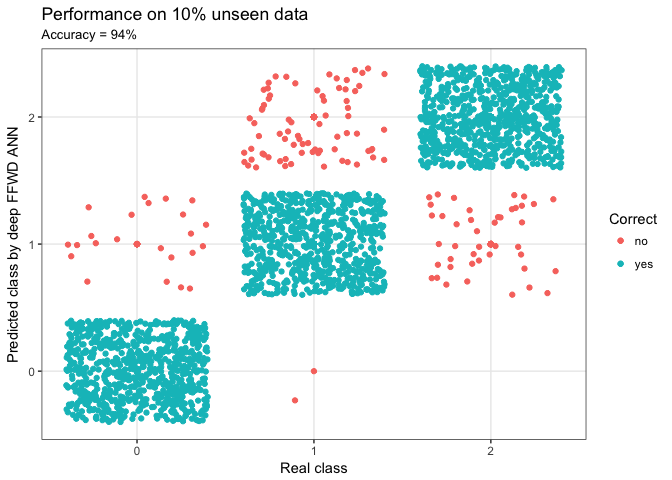
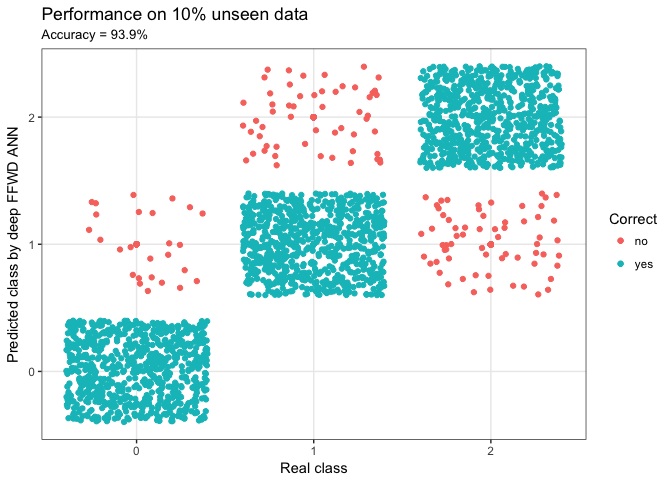
Update README

diff --git a/README.md b/README.md
@@ -1,12 +1,38 @@
-Keras/TensorFlow Demo
+Keras/TensorFlow in R Demo with Immunoinformatics as use-case
 ================
+
+Click on each section to expand or jump directly to the section of interest
+
+Introduction
+============
+
+<details> <summary>Click to expand</summary>
+
+### Aim
+
+The aim of this brief demo is to use deep learning to predict molecular interactions.
+
+### Background
+
+The use case is within immunological bioinformatics also known as immunoinformatics. Briefly, a key component in immune activation is the binding of small fragments of proteins known as peptide to a special molecule. Proteins and therefore peptides are made up of amino acids. Peptides are represented as a combination of the following 20 letters: `ARNDCQEGHILKMFPSTWYV`, such that a `9-mer` could be e.g. `GRTAEWMRW`. The special molecule binding the peptides is called Major Histocompability Complex Type 1 (MHCI) MHCI is located on the surface of the cells in our body and together with the bound peptide, MHCI reflects the health of the individual cells. If a cell is sick, this will be visible to the immune system via the MHCI-peptide interaction, as illustrated here by [Lund et al., 2005](https://mitpress.mit.edu/books/immunological-bioinformatics):
+
+<img src="README_files/figure-markdown_github/MHCI_pathway_cartoon.png" alt="Cartoon of the MHCI pathway" width="300" />
+
+### Data
+
+In this demo, we will be predicting if a given `9-mer` peptide will be a 'strong-binder' `SB`, 'weak-binder' `WB` or a 'non-binder' `NB` to the MHCI variant `HLA-A*02:01`. We will be using a data set created by submitting 1,000,000 random `9-mers` to [`netMHCpan-4.0`](http://www.cbs.dtu.dk/services/%60netMHCpan-4.0%60/) and predicting binding affinty to `HLA-A*02:01`. Based on the continuous binding affinty, each peptide is labeled `SB`, `WB` or `NB`. As `n(SB) < n(WB) << n(NB)`, the data set was balanced by down-sampling, such that `n(SB) = n(WB) = n(NB) = 7920`. Thusly, the data set has a total of `n(all) = 23760` data points. The data set was furthermore split into a `train` and `test` set, by random sampling 10% of the peptides. The data set is available [here](https://raw.githubusercontent.com/leonjessen/keras_tensorflow_demo/master/data/ran_peps_netMHCpan40_predicted_A0201_reduced_cleaned_balanced.tsv). It should be noted that this data set is derived from a model, so our final model in this example, will be a model of a model.
+
+</details>
+
+Setup
+=====
+
+<details> <summary>Click to expand</summary>
 
 Have no fear, you're almost there!
 ----------------------------------
 
-If you already have `tidyverse`, `keras`, `ggseqlogo` and `PepTools` installed, then you can skip directly to [this section](#deep-feed-forward-artificial-neural-network).
-
-We need a few things installed before we're good to go, but I promise it'll be quick and painless! <details> <summary>Click to see installation guide</summary>
+We need a few things installed before we're good to go, but I promise it'll be quick and painless!
 
 Getting started
 ---------------
@@ -15,7 +41,7 @@ You only need to do the following once!
 
 Go ahead and head on over to [The R Project for Statistical Computing](https://www.r-project.org/) and install the newest version of `R`. Then pop over to [RStudio](https://www.rstudio.com/products/rstudio/download/#download) and get their brilliant IDE.
 
-In order to use `Keras` and `TensorFlow`, we need to install them along with the `TidyVerse` framework. We also need `PepTools` for working with peptide data and the `ggseqlogo` package for generating sequence logos. Fortunately, this is straight forward using Hadley Wickham's `devtools`:
+In order to use [`Keras`](https://tensorflow.rstudio.com/) and [`TensorFlow`](https://tensorflow.rstudio.com/), we need to install them along with the [`TidyVerse`](https://www.tidyverse.org/) framework. We also need [`PepTools`](https://github.com/leonjessen/PepTools) for working with peptide data and lastly the [`ggseqlogo`](https://github.com/omarwagih/ggseqlogo) package for generating sequence logos. Fortunately, this is all straight forward using the ever brilliant [Hadley Wickham](https://pbs.twimg.com/profile_images/905186381995147264/7zKAG5sY.jpg)'s `devtools`:
 
 ``` r
 install.packages("devtools")
@@ -55,6 +81,9 @@ Deep Feed Forward Artificial Neural Network
 
 Here is a basic example of a deep FFWD ANN workflow (This example is adapted from this [RStudio Keras](https://keras.rstudio.com/) tutorial).
 
+Getting Started
+---------------
+
 First we clear the workspace to avoid unintentional reuse of old variables
 
 ``` r
@@ -77,6 +106,9 @@ pep_file = "https://raw.githubusercontent.com/leonjessen/keras_tensorflow_demo/m
 pep_dat  = read_tsv(file = pep_file)
 ```
 
+Understand the Data
+-------------------
+
 The example peptide data looks like this
 
 ``` r
@@ -98,7 +130,7 @@ pep_dat
     ## 10 NIWLAIIEL        WB         1     train
     ## # ... with 23,750 more rows
 
-Where `peptide` is a set of `9-mer` peptides, `label_chr` defines whether the peptide was predicted by `netMHCpan-4.0` to be a strong-binder `SB`, weak-binder `WB` or `NB` non-binder to `HLA-A*02:01`. `label_num` is equivalent to `label_chr`, only the predicted binding is coded into three numeric classes. Finally `data_type` defines whether the particular data point is part of the training set or the ~10% data left out and used for final evaluation. The data has been balanced, which we can see using `TidyVerse` methods to summarise the input data:
+Where `peptide` is a set of `9-mer` peptides, `label_chr` defines whether the peptide was predicted by [`netMHCpan-4.0`](http://www.cbs.dtu.dk/services/%60netMHCpan-4.0%60/) to be a strong-binder `SB`, weak-binder `WB` or `NB` non-binder to `HLA-A*02:01`. `label_num` is equivalent to `label_chr`, only the predicted binding is coded into three numeric classes. Finally `data_type` defines whether the particular data point is part of the training set or the ~10% data left out and used for final evaluation. The data has been balanced, which we can see using `TidyVerse` methods to summarise the input data:
 
 ``` r
 pep_dat %>% group_by(label_chr, data_type) %>% summarise(n = n())
@@ -115,22 +147,34 @@ pep_dat %>% group_by(label_chr, data_type) %>% summarise(n = n())
     ## 5        WB      test   792
     ## 6        WB     train  7128
 
-Note this data set is derived from a model, so our final model in this example, will be a model of a model.
-
-We can use the very nice `ggseqlogo` package to visualise the sequence motif for the strong binders: <details> <summary>Click to see `ggseqlogo` code</summary>
+We can use the very nice `ggseqlogo` package to visualise the sequence motif for the strong binders:
 
 ``` r
-pep_dat %>% filter(label_chr=='SB') %>% pull(peptide) %>% ggseqlogo()
+pep_dat %>% filter(label_chr=='SB') %>% pull(peptide) %>%
+  pssm_freqs %>% pssm_bits %>% t %>% ggseqlogo(method="custom")
 ```
 
-![](README_files/figure-markdown_github/seq_logo-1.png) </details>
+<img src="README_files/figure-markdown_github/seq_logo-1.png" style="display: block; margin: auto;" />
 
-Prepare data
-------------
+From the sequence logo, it is evident that positions 2 and 9 in the peptide are of paramount importance for the MHCI-peptide binding. In fact these positions are known as the anchor positions.
 
-We are creating a model `f`, where `x` is the peptide and `y` is one of three classes `SB`, `WB` and `NB`, such that `f(x) = y`. Each peptide is encoded using the [BLOSUM62 matrix](https://www.ncbi.nlm.nih.gov/Class/FieldGuide/BLOSUM62.txt), such that each peptide becomes an 'image' matrix with 9 rows and 20 columns.
+Understand the encoding
+-----------------------
 
-We need to define the `x_train`, `y_train`, `x_test` and `y_test`:
+Each peptide is encoded using the [BLOSUM62 matrix](https://www.ncbi.nlm.nih.gov/Class/FieldGuide/BLOSUM62.txt), such that each peptide becomes an 'image' matrix with 9 rows and 20 columns - Think of it as a QR code. We can visualise a peptide 'image' using `pep_plot_images()`:
+
+``` r
+pep_ran(n = 1, k = 9) %>% pep_plot_images
+```
+
+<img src="README_files/figure-markdown_github/visualise_peptide_encoding-1.png" style="display: block; margin: auto;" />
+
+Each of these 'QR codes' define whether a given peptide is a strong-binder, weak-binder or non-binder. It is now our task to identify the pattern in the 'image' define which of the 3 classes the peptide belong to.
+
+Prepare Data for TensorFlow
+---------------------------
+
+We are creating a model `f`, where `x` is the peptide and `y` is one of three classes `SB`, `WB` and `NB`, such that `y ~ f(x)`. We need to define the `x_train`, `y_train`, `x_test` and `y_test`:
 
 ``` r
 x_train = pep_dat %>% filter(data_type == 'train') %>% pull(peptide)   %>% pep_encode
@@ -139,24 +183,62 @@ x_test  = pep_dat %>% filter(data_type == 'test')  %>% pull(peptide)   %>% pep_e
 y_test  = pep_dat %>% filter(data_type == 'test')  %>% pull(label_num) %>% array
 ```
 
-The x data is a 3-d array: ‘total number of peptides’ x ‘length of each peptide (9)’ x ‘number of unique residues (20)’ To prepare the data for training we convert the 3-d arrays into matrices by reshaping width and height into a single dimension (9x20 peptide ‘images’ are flattened into vectors of lengths 180)
+The x data is a 3-d array (a tensor) with `n_rows x n_columns x n_slices = n_peptides x l_peptide x l_enc = 21384 x 9 x 20`, i.e. all the 'images'/'QR codes' we generated. To prepare the data for training we convert the tensor into a matrix by reshaping width and height into a single dimension (9 x 20 peptide ‘images’ are flattened into vectors of lengths 180 and stacked as rows)
 
 ``` r
 x_train = array_reshape(x_train, c(nrow(x_train), 180))
-x_test  = array_reshape(x_test,  c(nrow(x_test), 180))
+dim(x_train)
 ```
+
+    ## [1] 21384   180
+
+``` r
+x_test  = array_reshape(x_test,  c(nrow(x_test), 180))
+dim(x_test)
+```
+
+    ## [1] 2376  180
 
 The y data is an integer vector with values ranging from 0 to 2. To prepare this data for training we encode the vectors into binary class matrices using the Keras `to_categorical` function:
 
 ``` r
 y_train = to_categorical(y_train, y_train %>% table %>% length)
-y_test  = to_categorical(y_test,  y_test  %>% table %>% length)
+dim(y_train)
 ```
+
+    ## [1] 21384     3
+
+``` r
+y_train %>% head(3)
+```
+
+    ##      [,1] [,2] [,3]
+    ## [1,]    0    1    0
+    ## [2,]    0    0    1
+    ## [3,]    0    1    0
+
+``` r
+y_test  = to_categorical(y_test,  y_test  %>% table %>% length)
+dim(y_test)
+```
+
+    ## [1] 2376    3
+
+``` r
+y_test %>% head(3)
+```
+
+    ##      [,1] [,2] [,3]
+    ## [1,]    0    1    0
+    ## [2,]    0    1    0
+    ## [3,]    0    1    0
+
+Now that we have the data, we can proceed to creating our TensorFlow model.
 
 Defining the model
 ------------------
 
-The core data structure of Keras is a model, a way to organize layers. The simplest type of model is the Sequential model, a linear stack of layers. We begin by creating a sequential model and then adding layers using the pipe (`%>%`) operator:
+The core data structure of Keras is a model, a way to organize layers. The simplest type of model is the Sequential model, a linear stack of layers. We begin by creating a sequential model and then adding layers:
 
 ``` r
 model = keras_model_sequential() 
@@ -207,18 +289,18 @@ model %>% compile(
 Training and evaluation
 -----------------------
 
-We use the fit() function to train the model for 500 epochs using batches of 50 peptide ‘images’:
+We use the fit() function to train the model for 150 epochs using batches of 50 peptide ‘images’:
 
 ``` r
 history = model %>% fit(
   x_train, y_train, 
-  epochs = 500, batch_size = 50, validation_split = 0.2)
+  epochs = 150, batch_size = 50, validation_split = 0.2)
 ```
 
 Visualise training
 ------------------
 
-We can visualise the training progress in each epoch using `ggplot`: <details> <summary>Click to see `ggplot` code</summary>
+We can visualise the training progress in each epoch using `ggplot`:
 
 ``` r
 plot_dat = tibble(epoch = rep(1:history$params$epochs,2),
@@ -231,7 +313,7 @@ plot_dat %>%
   theme_bw()
 ```
 
-![](README_files/figure-markdown_github/visualise_training-1.png) </details>
+![](README_files/figure-markdown_github/visualise_training-1.png)
 
 Performance
 -----------
@@ -244,15 +326,15 @@ perf
 ```
 
     ## $loss
-    ## [1] 0.2537786
+    ## [1] 0.1992769
     ## 
     ## $acc
-    ## [1] 0.9385522
+    ## [1] 0.9389731
 
-and we can visualise the predictions: <details> <summary>Click to see `ggplot` code</summary>
+and we can visualise the predictions:
 
 ``` r
-acc     = perf$acc %>% round(3)*100
+acc     = perf$acc %>% round(3) * 100
 y_pred  = model %>% predict_classes(x_test)
 y_real  = y_test %>% apply(1,function(x){ return( which(x==1) - 1) })
 results = tibble(y_real = y_real, y_pred = y_pred,
@@ -270,6 +352,8 @@ results %>%
   theme_bw()
 ```
 
-![](README_files/figure-markdown_github/visualise_preds-1.png) </details> That the end of this small tutorial - I hope you had fun!
+![](README_files/figure-markdown_github/visualise_preds-1.png)
+
+That the end of this small demo - I hope you had fun!
 
 Leon Eyrich Jessen
